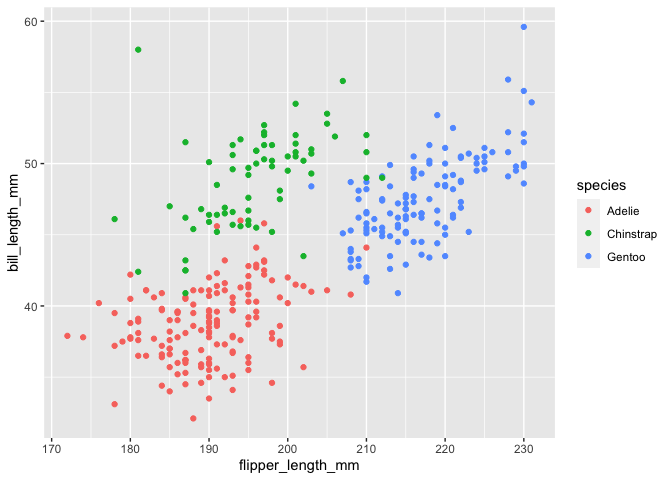
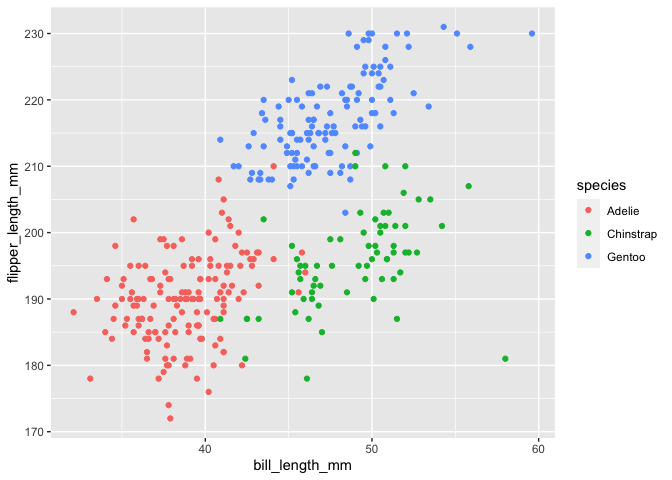
revised scatterplot axes

diff --git a/p8105_hw1_cm4070.md b/p8105_hw1_cm4070.md
@@ -144,13 +144,13 @@ penguins
 
 -   the mean flipper length is 200.9152047
 
-### Scatterplot
+### Create a scatterplot
 
 *This code will make a color coded scatter plot of flipper length
 vs. bill length for the species variable.*
 
 ``` r
-ggplot(penguins, aes(x = flipper_length_mm, y = bill_length_mm, color = species)) + geom_point()
+ggplot(penguins, aes(x = bill_length_mm, y = flipper_length_mm, color = species)) + geom_point()
 ```
 
 ![](p8105_hw1_cm4070_files/figure-gfm/ggplot_species-1.png)<!-- -->
